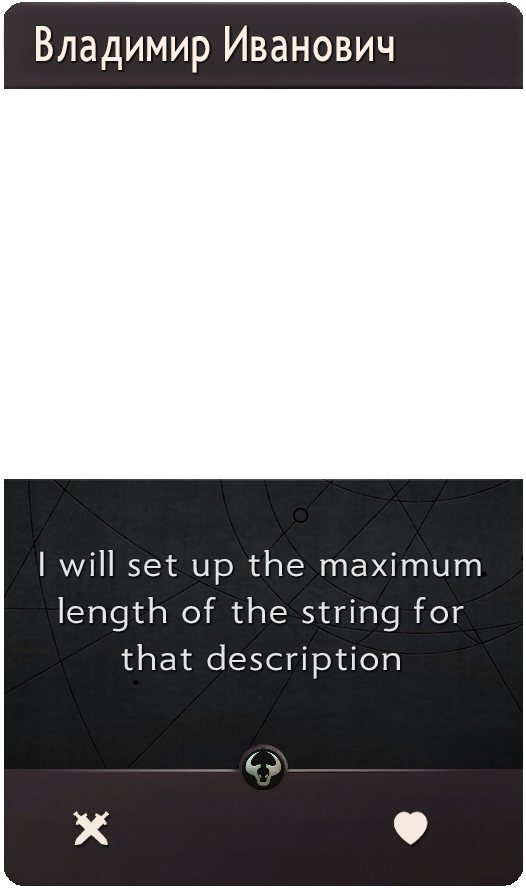
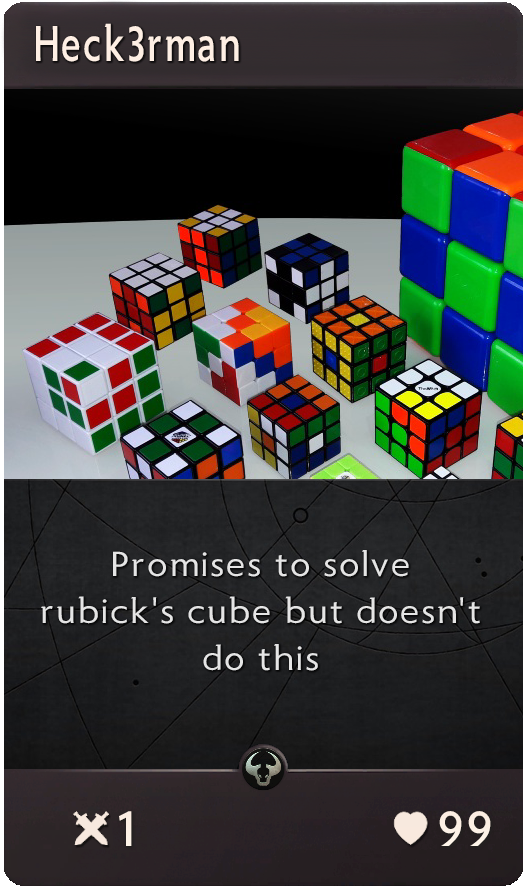
Alpha version of generator

diff --git a/services/cardGenerator.go b/services/cardGenerator.go
@@ -3,8 +3,10 @@ package services
 import (
 	"encoding/json"
 	"fmt"
+	"github.com/h2non/filetype"
 	"image"
 	"image/draw"
+	"image/jpeg"
 	"image/png"
 	"io/ioutil"
 	"os"
@@ -18,8 +20,6 @@ func GenerateCard() {
 	if err != nil {
 		fmt.Println(err)
 	}
-
-	//sourceImg, err := png.Decode(source)
 	sourceImg, err := png.Decode(source)
 	//
 	if err != nil {
@@ -30,9 +30,15 @@ func GenerateCard() {
 	// I will generate the first title image. After that I will put this title image on source image
 
 	// 20 symbols per title
-	titleDst := getTitleImage("Владимир Иванович")
+	titleDst := getTitleImage("Heck3rman")
 	// 26 symbols per string
-	descriptionDst := getDescriptionImage("I will set up the maximum length of the string for that description")
+	descriptionDst := getDescriptionImage("Promises to solve rubick's cube but doesn't do this")
+
+	imageDst := getImageImage("image3.jpg")
+
+	numberImage1 := getNumberImage("99")
+	numberImage2 := getNumberImage("1")
+
 
 	sr := image.Rectangle{image.Point{0, 0}, image.Point{sourceImg.Bounds().Dx(), sourceImg.Bounds().Dy()}}
 	rgba := image.NewRGBA(sr)
@@ -43,16 +49,34 @@ func GenerateCard() {
 	var maxTitleWidth = 465
 
 	var descriptionOffsetX = 35
-	var  descriptionOffsetY = 500
+	var descriptionOffsetY = 500
 	var maxDescriptionWidth = 465
 	var maxDescriptionHeight = 230
 
+	var imageOffsetX = 4
+	var imageOffsetY = 89
+
+	var number1ImageOffsetX = 437
+	var number1ImageOffsetY = 799
+
+	var number2ImageOffsetX = 117
+	var number2ImageOffsetY = 799
+
 	tr := image.Rectangle{image.Point{titleOffsetX, titleOffsetY}, image.Point{maxTitleWidth + titleOffsetX, titleDst.Bounds().Dy() + titleOffsetY}}
-	dr := image.Rectangle{image.Point{descriptionOffsetX, descriptionOffsetY + (maxDescriptionHeight - descriptionDst.Bounds().Dy()) / 2}, image.Point{maxDescriptionWidth + descriptionOffsetX, descriptionDst.Bounds().Dy() + descriptionOffsetY + (maxDescriptionHeight - descriptionDst.Bounds().Dy()) / 2}}
+	dr := image.Rectangle{image.Point{descriptionOffsetX, descriptionOffsetY + (maxDescriptionHeight-descriptionDst.Bounds().Dy())/2}, image.Point{maxDescriptionWidth + descriptionOffsetX, descriptionDst.Bounds().Dy() + descriptionOffsetY + (maxDescriptionHeight-descriptionDst.Bounds().Dy())/2}}
+
+	ir := image.Rectangle{image.Point{imageOffsetX, imageOffsetY}, image.Point{imageDst.Bounds().Dx() + imageOffsetX, imageDst.Bounds().Dy() + imageOffsetY}}
+
+	n1r := image.Rectangle{image.Point{number1ImageOffsetX, number1ImageOffsetY}, image.Point{numberImage1.Bounds().Dx() + number1ImageOffsetX, number1ImageOffsetY + numberImage1.Bounds().Dy()}}
+	n2r := image.Rectangle{image.Point{number2ImageOffsetX, number2ImageOffsetY}, image.Point{numberImage1.Bounds().Dx() + number2ImageOffsetX, number2ImageOffsetY + numberImage1.Bounds().Dy()}}
 
 	draw.Draw(rgba, sourceImg.Bounds(), sourceImg, image.Point{0, 0}, draw.Over)
 	draw.Draw(rgba, tr, titleDst, image.Point{0, 0}, draw.Over)
 	draw.Draw(rgba, dr, descriptionDst, image.Point{0, 0}, draw.Over)
+	draw.Draw(rgba, ir, imageDst, image.Point{0, 0}, draw.Over)
+	draw.Draw(rgba, n1r, numberImage1, image.Point{0, 0}, draw.Over)
+	draw.Draw(rgba, n2r, numberImage2, image.Point{0, 0}, draw.Over)
+
 
 	out, err := os.Create("output.png")
 	if err != nil {
@@ -63,6 +87,49 @@ func GenerateCard() {
 	//opt.Quality = 100
 
 	png.Encode(out, rgba)
+}
+
+func getImageImage(filename string) *image.RGBA {
+	var width = 519
+	var height = 390
+
+	imgSrc, err := ioutil.ReadFile(filename)
+	imgOs, err := os.Open(filename)
+
+	if err != nil {
+		fmt.Println(err)
+	}
+
+	imageType, unknown := filetype.Match(imgSrc)
+
+	if unknown != nil {
+		fmt.Println(unknown)
+
+		return nil
+	}
+
+	var imageData image.Image
+
+	if filetype.IsImage(imgSrc) {
+
+		if imageType.Extension == "jpg" {
+			imageData, err = jpeg.Decode(imgOs)
+		} else if imageType.Extension == "png" {
+			imageData, err = png.Decode(imgOs)
+		}
+
+		if err != nil {
+			fmt.Println(err)
+		}
+	}
+
+	dstImage := image.NewRGBA(image.Rectangle{image.Point{0, 0}, image.Point{width, height}})
+
+	ir := image.Rectangle{image.Point{0, 0}, image.Point{width, height}}
+
+	draw.Draw(dstImage, ir, imageData, image.Point{0, 0}, draw.Over)
+
+	return dstImage
 }
 
 func getDescriptionImage(description string) *image.RGBA {
@@ -81,7 +148,6 @@ func getDescriptionImage(description string) *image.RGBA {
 	var maxSymbolsPerString = 27
 	//var maxDescriptionWidth = 465
 	//var maxDescriptionHeight = 500
-
 
 	words := strings.Fields(description)
 
@@ -109,8 +175,7 @@ func getDescriptionImage(description string) *image.RGBA {
 	var verticalWhitespace = 5
 	var strHeight = 42
 	var width = 465
-	var height = len(descriptionStrings) * strHeight + len(descriptionStrings) * verticalWhitespace
-
+	var height = len(descriptionStrings)*strHeight + len(descriptionStrings)*verticalWhitespace
 
 	//for _, char := range description {
 	//	var letter = letterPoint(string(char), "description.json")
@@ -123,7 +188,7 @@ func getDescriptionImage(description string) *image.RGBA {
 	dstDescription := image.NewRGBA(image.Rectangle{image.Point{0, 0}, image.Point{width, height}})
 
 	for i, str := range descriptionStrings {
-		var yOffset = i * strHeight + i * verticalWhitespace
+		var yOffset = i*strHeight + i*verticalWhitespace
 		var cDescriptionWidth = 0
 
 		for _, char := range str {
@@ -142,6 +207,49 @@ func getDescriptionImage(description string) *image.RGBA {
 	}
 
 	return dstDescription
+}
+
+func getNumberImage(numberString string) *image.RGBA {
+	font, err := os.Open("numbers.png")
+
+	if err != nil {
+		fmt.Println(err)
+	}
+
+	fontImg, err := png.Decode(font)
+
+	if err != nil {
+		fmt.Println(err)
+	}
+
+	var whitespace = 1
+
+	var titleWidth = 0
+	var titleHeight = 62
+
+	for _, char := range numberString {
+		var letter = letterPoint(string(char), "numbers.json")
+		titleWidth += letter.Max.X - letter.Min.X + whitespace
+	}
+
+	//fmt.Println(titleWidth)
+	//fmt.Println(titleHeight)
+
+	dstTitle := image.NewRGBA(image.Rectangle{image.Point{0, 0}, image.Point{titleWidth, titleHeight}})
+
+	var cTitleWidth = 0
+
+	for _, char := range numberString {
+		var letter = letterPoint(string(char), "numbers.json")
+		//fmt.Println(cTitleWidth)
+		st := image.Rectangle{image.Point{cTitleWidth, 0}, image.Point{cTitleWidth + letter.Max.X - letter.Min.X + whitespace, titleHeight}}
+
+		cTitleWidth = cTitleWidth + letter.Max.X - letter.Min.X + whitespace
+
+		draw.Draw(dstTitle, st, fontImg, image.Point{letter.Min.X, 0}, draw.Over)
+	}
+
+	return dstTitle
 }
 
 func getTitleImage(titleString string) *image.RGBA {
